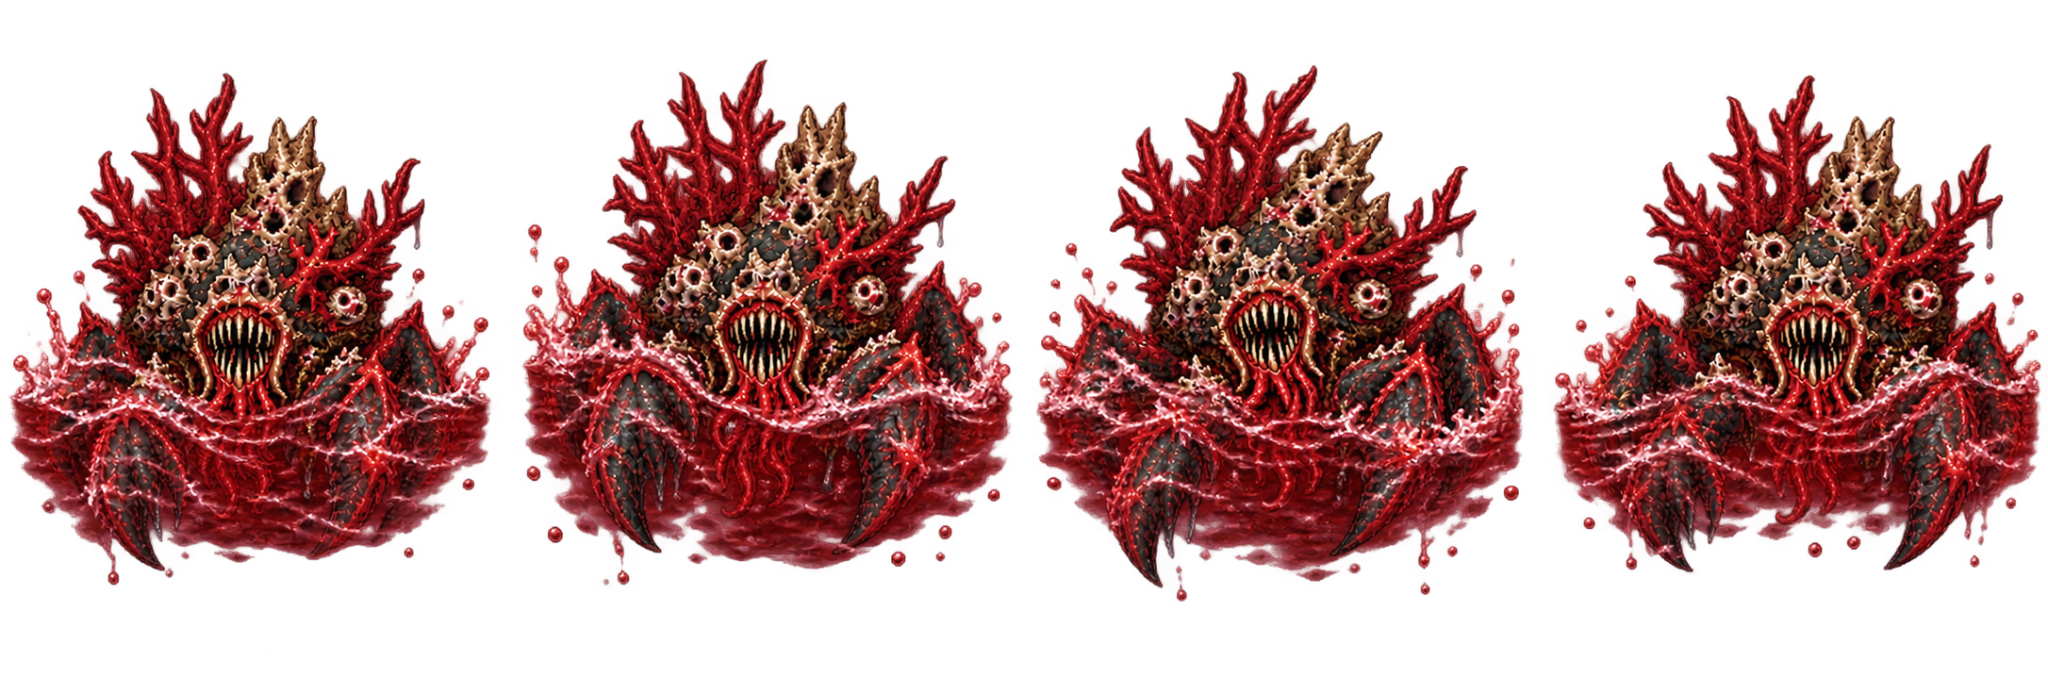
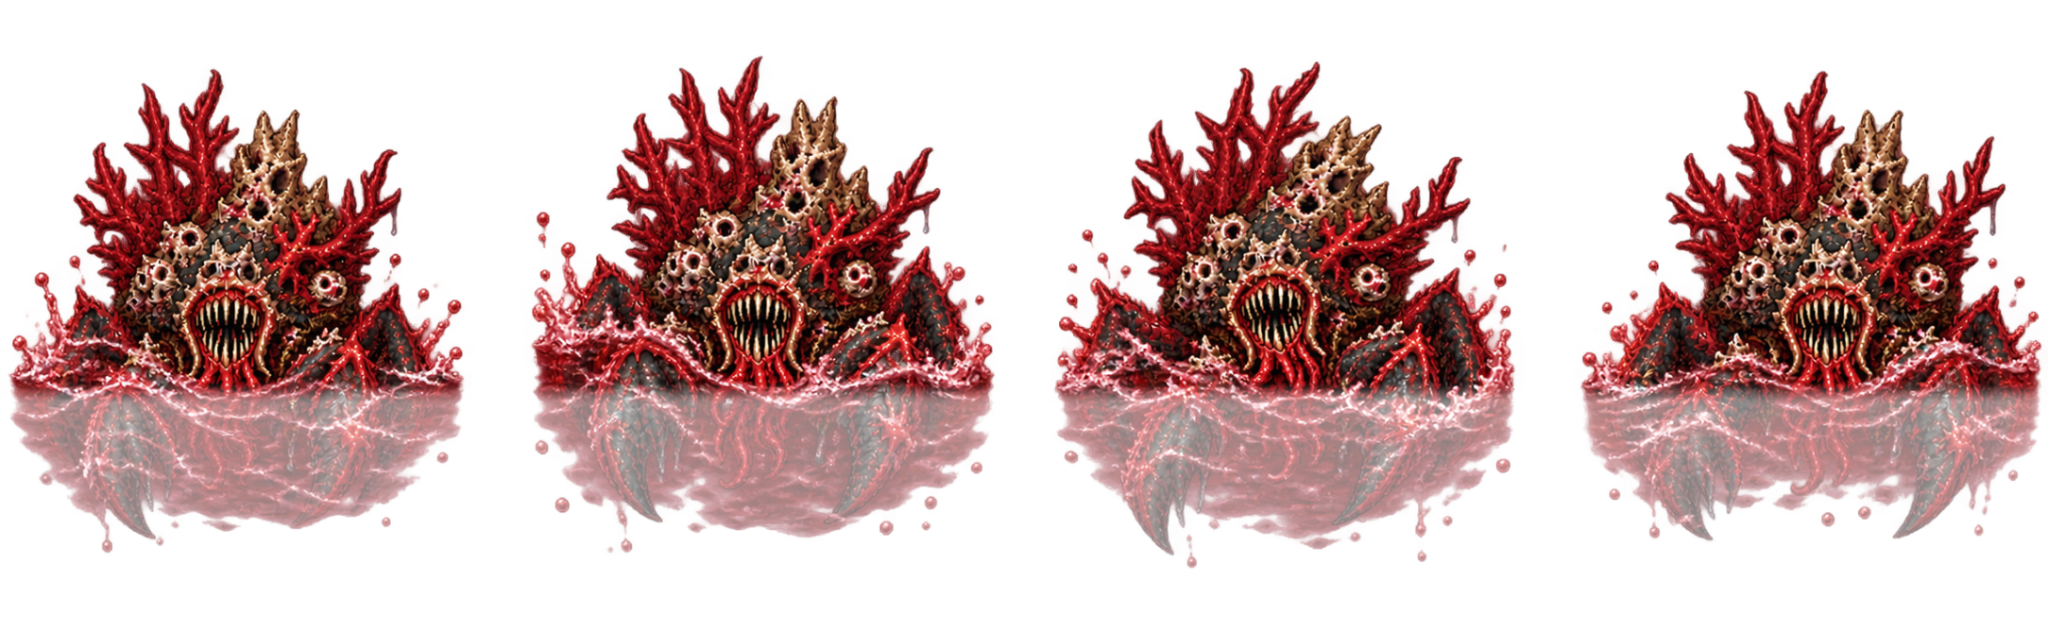
fix(coral): replace sheet and keep Horror de Coral facing fixed 0°

diff --git a/sw.js b/sw.js
@@ -1,4 +1,4 @@
-const CACHE_NAME='omar-mar-de-sangue-v86-dark-ocean-v3-20261027';
+const CACHE_NAME='omar-mar-de-sangue-v87-coral-submerso-fixed-20261027';
 const ASSETS=["./","./index.html","./asset-audit.html","./PwaStatus.js","./Game.js","./SeaOceanV3.js","./assets/tiles/sea-v3/sea_chunk_01_base.webp","./assets/tiles/sea-v3/sea_chunk_02_base.webp","./assets/tiles/sea-v3/sea_chunk_03_base.webp","./assets/tiles/sea-v3/sea_chunk_04_base.webp","./SeaEffects.js","./SeaWeather.js","./SeaMenus.js","./SeaPoliticalEvents.js","./SeaIslands.js","./SeaAtlas.js","./SeaGunnery.js","./SeaImpulse.js","./SeaCannonChargeFx.js","./SeaContracts.js","./SeaPerformance.js","./SeaPerformanceCompare.js","./SeaPixelPolish.js","./SeaSaveTransfer.js","./PortUI.js","./PortUI.css","./PortThemeAbyss.css","./style.css","./phaser.min.js","./manifest.webmanifest","./assets/abyss/coral_horror.png","./assets/abyss/cult_barge.png","./assets/abyss/dagon_eye.png","./assets/abyss/dreadnought.png","./assets/abyss/drowned_choir.png","./assets/abyss/kraken.png","./assets/abyss/kraken_tentacle.png","./assets/abyss/shell_guardian.png","./assets/abyss/temple_turtle.png","./assets/fx/cannon_charge_sparks.png","./assets/fx/blast_0.png","./assets/fx/blast_1.png","./assets/fx/blast_2.png","./assets/fx/blast_3.png","./assets/fx/foam_0.png","./assets/fx/foam_1.png","./assets/fx/foam_2.png","./assets/fx/foam_3.png","./assets/fx/gold_0.png","./assets/fx/gold_1.png","./assets/fx/gold_2.png","./assets/fx/gold_3.png","./assets/fx/muzzle_0.png","./assets/fx/muzzle_1.png","./assets/fx/muzzle_2.png","./assets/fx/muzzle_3.png","./assets/fx/muzzle_4f.png","./assets/fx/shrine_glow.png","./assets/fx/smoke_0.png","./assets/fx/smoke_1.png","./assets/fx/smoke_2.png","./assets/fx/smoke_3.png","./assets/fx/splash_0.png","./assets/fx/splash_1.png","./assets/fx/splash_2.png","./assets/fx/splash_3.png","./assets/fx/splash_4f.png","./assets/fx/splinters_0.png","./assets/fx/splinters_1.png","./assets/fx/splinters_2.png","./assets/fx/splinters_3.png","./assets/fx/splinters_4f.png","./assets/fx/violet_0.png","./assets/fx/violet_1.png","./assets/fx/violet_2.png","./assets/fx/violet_3.png","./assets/islands/island_daegon.png","./assets/islands/island_demeter.png","./assets/islands/island_monastery.png","./assets/islands/island_reef.png","./assets/islands/island_ruin.png","./assets/islands/island_wreck.png","./assets/items/treasure_chest.png","./assets/items/treasure_coin.png","./assets/items/treasure_crate.png","./assets/menu_bg.png","./assets/ui/hud-helm-landscape.png","./assets/ui/hud-combat-landscape.png","./assets/sprites/enemy_admiral.png","./assets/sprites/enemy_bombard.png","./assets/sprites/enemy_corsair.png","./assets/sprites/enemy_court_ship.png","./assets/sprites/enemy_galleon.png","./assets/sprites/enemy_ram.png","./assets/sprites/enemy_spectral.png","./assets/player/mar_de_sangue_navio_proa_baixo_20_evolucoes.png","./assets/tiles/sea_base.png","./assets/tiles/sea_blood.png","./assets/tiles/sea_foam.png","./assets/tiles/sea_mist.png","./assets/ui/command_console.png","./assets/ui/command_console_analog.png","./assets/v15/beast_coral.png","./assets/abyss/dagon.png","./assets/v15/beast_eel_swim.webp","./assets/v15/beast_drowned.png","./assets/v15/beast_kraken.png","./assets/v15/beast_tentacle.png","./assets/v15/fx_frame_00.png","./assets/v15/fx_frame_01.png","./assets/v15/fx_frame_02.png","./assets/v15/fx_frame_03.png","./assets/v15/fx_frame_04.png","./assets/v15/fx_frame_05.png","./assets/v15/fx_frame_06.png","./assets/v15/fx_frame_07.png","./assets/v15/fx_frame_08.png","./assets/v15/fx_frame_09.png","./assets/v15/fx_frame_10.png","./assets/v15/fx_frame_11.png","./assets/v15/fx_frame_12.png","./assets/v15/fx_frame_13.png","./assets/v15/fx_frame_14.png","./assets/v15/fx_frame_15.png","./assets/v15/ship_admiral.png","./assets/v15/ship_blood.png","./assets/v15/ship_chapel.png","./assets/v15/ship_flagship.png","./assets/v15/ship_merchant.png","./assets/v15/ship_ram.png","./assets/v15/ship_royal.png","./assets/v15/ship_sloop.png","./assets/v15/ship_spectral.png","./assets/v15/ship_wrecked.png","./icons/icon-192.png","./icons/icon-512.png"];
 self.addEventListener('install',event=>event.waitUntil(caches.open(CACHE_NAME).then(c=>c.addAll(ASSETS)).then(()=>self.skipWaiting())));
 self.addEventListener('activate',event=>event.waitUntil(caches.keys().then(keys=>Promise.all(keys.filter(k=>k!==CACHE_NAME && k.startsWith('omar-mar-de-sangue')).map(k=>caches.delete(k)))).then(()=>self.clients.claim())));

diff --git a/Game.js b/Game.js
@@ -307,10 +307,10 @@ class SeaBoot extends Phaser.Scene {
         this.load.spritesheet('eel-swim', 'assets/v15/beast_eel_swim.webp', {
             frameWidth:512, frameHeight:565, endFrame:3
         });
-        // Horror de Coral: quatro quadros horizontais do original (512 × 682 cada).
-        // A PROA fica embaixo no desenho; paintEnemies alinha somente a arte.
+        // Horror de Coral submerso: 4 quadros RGBA originais, 512 × 644.
+        // Criatura de orientação fixa: nunca segue o rumo de navegação.
         this.load.spritesheet('coral-animated', 'assets/v15/beast_coral.png', {
-            frameWidth:512, frameHeight:682, endFrame:3
+            frameWidth:512, frameHeight:644, endFrame:3
         });
         this.load.image('v15-fx-0', 'assets/v15/fx_frame_00.png');
         this.load.image('v15-fx-1', 'assets/v15/fx_frame_01.png');
@@ -816,13 +816,12 @@ class Game extends Phaser.Scene {
         // Spritesheet source height is ONE frame; four frames are side by side.
         const animated682 = (type==='olho_dagon' && tex==='dagon-eye-animated') ||
             (type==='dagon' && tex==='dagon-animated') ||
-            (type==='coral' && tex==='coral-animated') ||
             (type==='recife' && tex==='reef-devourer-animated') ||
             (type==='afogados' && tex==='drowned-animated') ||
             (type==='kraken' && tex==='kraken-animated') ||
             (type==='tentaculo' && tex==='tentacle-animated');
-        const sourceH = animated682 ? 682 :
-            (this.textures.get(tex).getSourceImage().height || 160);
+        const sourceH = type==='coral' && tex==='coral-animated' ? 644 :
+            animated682 ? 682 : (this.textures.get(tex).getSourceImage().height || 160);
         const supernatural = ['enguia','afogados','coral','recife','caranguejo','tartaruga','tentaculo','kraken','dagon','olho_dagon'].includes(type);
         const heightFactor = supernatural ? (elite ? 2.12 : 2.02) : ['foe-galleon','foe-admiral'].includes(tex) ? 2.35 : tex === 'foe-ram' ? 2.15 : 2.45;
         const initialMonsterFrame=(type==='dagon'||type==='coral'||type==='recife'||type==='afogados'||type==='kraken'||type==='tentaculo'||type==='olho_dagon'||(type==='cultista'&&tex==='cult-barge-animated'))?0:undefined;
@@ -1269,7 +1268,7 @@ class Game extends Phaser.Scene {
                 if(e.reefFrame!==frame){e.ship.setFrame(frame);e.reefFrame=frame;}
             }
             if(e.type==='coral' && e.ship.texture.key==='coral-animated'){
-                // Coral pulsa em quatro quadros, sem modificar colisões, IA ou rumo.
+                // Coral submerso pulsa em quatro quadros, sempre com rotação visual 0°.
                 const frame=Math.floor((t*4+e.visualPhase)%4);
                 if(e.coralFrame!==frame){e.ship.setFrame(frame);e.coralFrame=frame;}
             }
@@ -1947,12 +1946,14 @@ class Game extends Phaser.Scene {
             // O Dagon emerge da água: seu horizonte permanece horizontal.
             // A direção de ataque e a física continuam usando e.heading.
             // Gameplay headings are measured from image-UP (0°).
-            // Enguia, Horror de Coral, Recife Devorador e aríete V15 têm PROA na parte inferior
-            // da arte. Somente o sprite recebe +PI; física, rumo, colisões,
-            // esteira e ataques continuam sem alterações.
-            const artFacesDown=e.type==='enguia'||e.type==='coral'||e.type==='recife'||e.type==='cultista'||
+            // A enguia, o Recife Devorador e o aríete V15 recebem +PI
+            // somente no sprite. Horror de Coral, Dagon e Olho de Dagon
+            // NÃO GIRAM: seus quadros mantêm sempre 0°, independentemente do heading.
+            // Física, rumo, colisões, esteira e ataques permanecem intactos.
+            const artFacesDown=e.type==='enguia'||e.type==='recife'||e.type==='cultista'||
                 (e.type==='ariete'&&e.ship.texture.key==='v15-ram');
-            e.ship.setPosition(e.x,e.y).setRotation(e.type==='dagon'?0:e.type==='olho_dagon'?0:
+            e.ship.setPosition(e.x,e.y).setRotation(
+                e.type==='coral'?0:e.type==='dagon'?0:e.type==='olho_dagon'?0:
                 e.heading+(artFacesDown?Math.PI:0));
             if (e.label) e.label.setPosition(e.x, e.y - e.radius - 54);
             const width=e.boss?112:58;
